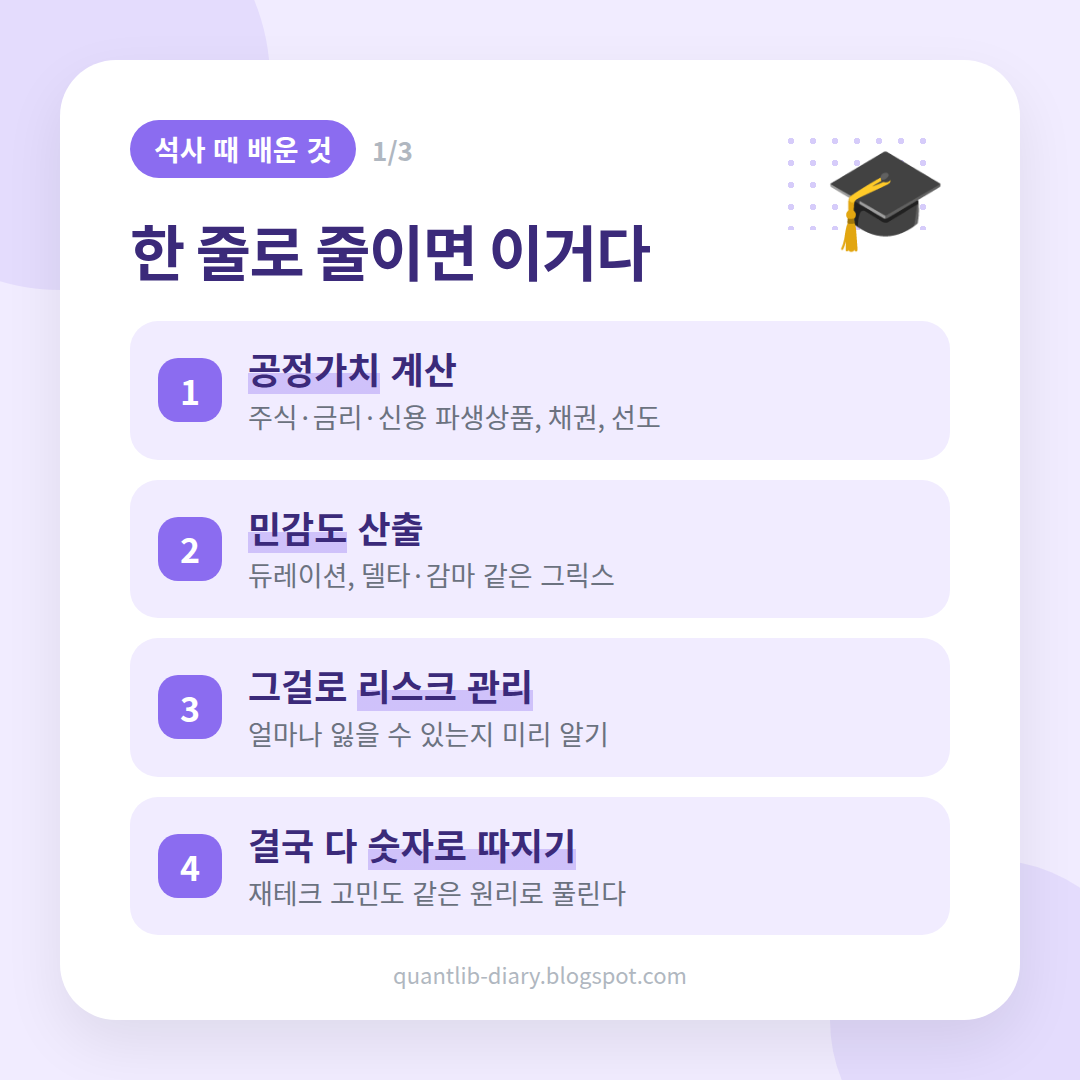
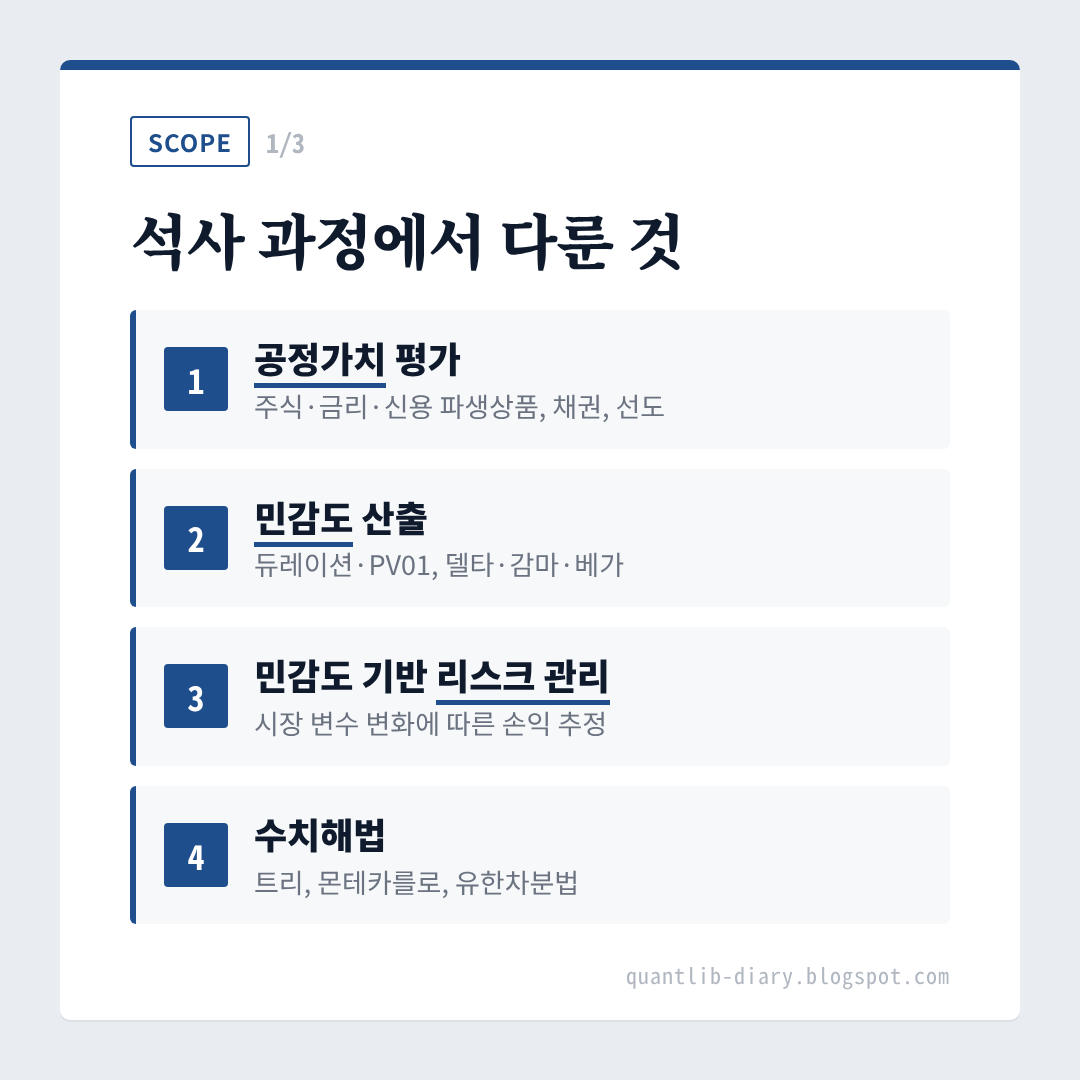
Pro research-note card style for quant diary; restyle prologue images
Claude-Session: https://claude.ai/code/session_01Xd2bhLQBjXyZEe9hNn5SEZ

diff --git a/cards/render.py b/cards/render.py
@@ -56,13 +56,58 @@ def esc(s):
     return s.replace("\n", "<br>")
 
 
-def page(theme, body, css=""):
+PRO_CSS = """
+body{background:#E9ECF1}
+.blob,.dots,.emoji{display:none}
+.card{border-radius:10px;box-shadow:0 2px 0 rgba(15,27,45,.06);padding-top:56px}
+.card:before{content:"";position:absolute;left:0;top:0;right:0;height:10px;background:var(--accent);border-radius:10px 10px 0 0}
+h1{font-family:'Noto Serif CJK KR',serif;font-weight:900;letter-spacing:-1px}
+.hl{background:none;border-bottom:5px solid var(--accent)}
+.tag{border-radius:4px;background:none;color:var(--accent);border:2px solid var(--accent);font-size:24px;letter-spacing:1px;padding:6px 16px}
+.page{font-family:'Noto Sans Mono CJK KR',monospace}
+.brand{font-family:'Noto Sans Mono CJK KR',monospace;letter-spacing:1px;text-align:right;right:70px;left:auto}
+.box{border-radius:6px;background:#F3F5F8;border-left:6px solid var(--accent)}
+.box .ic{display:none}
+.row{border-radius:6px;background:#F7F8FA;border-left:6px solid var(--accent)}
+.num,.ck{border-radius:4px;font-family:'Noto Sans Mono CJK KR',monospace}
+.it{border-bottom:2px solid #E6E9EE}
+th{border-radius:0 !important;background:#fff !important;color:var(--ink) !important;border-top:4px solid var(--ink);border-bottom:2px solid var(--ink)}
+td{border-radius:0 !important;background:#fff !important;border-bottom:1px solid #D9DEE5}
+.q{border-radius:4px;background:none;color:var(--accent);padding:0 0 0 20px;border-left:6px solid var(--accent)}
+.a{align-self:stretch;max-width:100%;border-radius:4px;background:#F7F8FA;margin-left:26px}
+.chip{border-radius:4px;border-width:2px;font-size:24px;font-family:'Noto Sans Mono CJK KR',monospace}
+/* cover */
+.pro-cover body{background:#0F1B2D}
+.cov{background:#0F1B2D !important;color:#fff}
+.cov h1{color:#fff}.cov .sub{color:#AEB8C6 !important}
+.cov .hl{border-bottom-color:#7FA7D9}
+.cov .tag{color:#9FC0E8;border-color:#9FC0E8}
+.cov .chip{color:#C9D6E6;border-color:#4A6283}
+.cov .chips{flex-direction:row;flex-wrap:wrap;gap:12px}.cov .bottom{margin-top:0}
+.cov .brand{color:#6F8099}
+.cov:before{background:#7FA7D9}
+.formula{font-family:'Noto Serif CJK KR',serif;font-style:italic;font-size:44px;color:#7FA7D9;
+         border-top:1px solid #33465F;padding-top:26px;margin-top:auto;margin-bottom:26px}
+"""
+
+THEMES["navy"] = ("#E9ECF1", "#1F4E8C", "#0F1B2D")
+
+
+def page(theme, body, css="", s=None):
+    s = s or {}
+    pro = s.get("style") == "pro"
+    if pro:
+        theme = theme if theme in ("navy",) else "navy"
     bg, accent, ink = THEMES.get(theme, THEMES["mint"])
+    extra = PRO_CSS if pro else ""
+    cls = "card cov" if (pro and s.get("type") == "cover") else "card"
+    if pro and s.get("type") == "cover":
+        body = body.replace('<div class="bottom">', f'<div class="formula">{s.get("formula", "")}</div><div class="bottom">')
     return f"""<html><head><meta charset="utf-8"><style>
-:root{{--bg:{bg};--accent:{accent};--ink:{ink};--hl:{accent}55}}{BASE_CSS}{css}</style></head>
+:root{{--bg:{bg};--accent:{accent};--ink:{ink};--hl:{accent}55}}{BASE_CSS}{css}{extra}</style></head>
 <body><div class="blob" style="width:420px;height:420px;top:-130px;left:-150px"></div>
 <div class="blob" style="width:320px;height:320px;bottom:-100px;right:-70px"></div>
-<div class="card"><div class="dots"></div>{body}<div class="brand">{BRAND}</div></div></body></html>"""
+<div class="{cls}"><div class="dots"></div>{body}<div class="brand">{BRAND}</div></div></body></html>"""
 
 
 def top(s, default, idx):
@@ -86,7 +131,7 @@ def cover(s, idx):
         css += "h1{font-size:62px}.chip{font-size:26px}"
     body = f"""{top(s, '재테크 사전', '')}<h1>{esc(s['title'])}</h1><div class="sub muted">{esc(s.get('subtitle', ''))}</div>
 <div class="bottom"><div class="chips">{chips}</div><div class="emoji">{s.get('emoji', '💰')}</div></div>"""
-    return page(s.get("theme"), body, css)
+    return page(s.get("theme"), body, css, s)
 
 
 def points(s, idx):
@@ -102,7 +147,7 @@ def points(s, idx):
         for i, p in enumerate(s["points"][:4]))
     body = f"""{top(s, '핵심 정리', idx)}<div class="emoji">{s.get('emoji', '✅')}</div>
 <h1>{esc(s['title'])}</h1><div class="list">{rows}</div>"""
-    return page(s.get("theme"), body, css)
+    return page(s.get("theme"), body, css, s)
 
 
 def compare(s, idx):
@@ -118,7 +163,7 @@ td:first-child{{font-weight:800;border-radius:20px 0 0 20px}}td:last-child{{bord
     rows = "".join("<tr>" + "".join(f"<td>{esc(c)}</td>" for c in r) + "</tr>" for r in s["rows"][:5])
     tip = f'<div class="box"><div class="ic">💡</div><div>{esc(s["tip"])}</div></div>' if s.get("tip") else ""
     body = f"""{top(s, '한눈에 비교', idx)}<h1>{esc(s['title'])}</h1><table><tr>{head}</tr>{rows}</table>{tip}"""
-    return page(s.get("theme"), body, css)
+    return page(s.get("theme"), body, css, s)
 
 
 def bars(s, idx):
@@ -136,7 +181,7 @@ def bars(s, idx):
     take = f'<div class="box"><div class="ic">👉</div><div>{esc(s["takeaway"])}</div></div>' if s.get("takeaway") else ""
     note = f'<div class="note">{esc(s["note"])}</div>' if s.get("note") else ""
     body = f"""{top(s, '숫자로 보기', idx)}<h1>{esc(s['title'])}</h1>{rows}{take}{note}"""
-    return page(s.get("theme"), body, css)
+    return page(s.get("theme"), body, css, s)
 
 
 def qa(s, idx):
@@ -149,7 +194,7 @@ def qa(s, idx):
     rows = "".join(f'<div style="display:flex;flex-direction:column"><div class="q">Q. {esc(i["q"])}</div>'
                    f'<div class="a">{esc(i["a"])}</div></div>' for i in s["items"][:3])
     body = f"""{top(s, '자주 묻는 질문', idx)}<h1>{esc(s['title'])}</h1><div class="list">{rows}</div>"""
-    return page(s.get("theme"), body, css)
+    return page(s.get("theme"), body, css, s)
 
 
 def check(s, idx):
@@ -162,7 +207,7 @@ def check(s, idx):
     tip = f'<div class="box"><div class="ic">💡</div><div>{esc(s["tip"])}</div></div>' if s.get("tip") else ""
     body = f"""{top(s, '체크리스트', idx)}<div class="emoji">{s.get('emoji', '📝')}</div>
 <h1>{esc(s['title'])}</h1><div class="list">{rows}</div>{tip}"""
-    return page(s.get("theme"), body, css)
+    return page(s.get("theme"), body, css, s)
 
 
 TEMPLATES = {"cover": cover, "points": points, "compare": compare, "bars": bars, "qa": qa, "check": check}
@@ -180,6 +225,8 @@ def render(spec, out_dir):
         pg = b.new_page(viewport={"width": 1080, "height": 1080})
         for c in cards:
             c.setdefault("theme", theme)
+            if spec.get("style"):
+                c.setdefault("style", spec["style"])
             idx = ""
             if c["type"] != "cover":
                 n += 1

diff --git a/WRITING_GUIDE.md b/WRITING_GUIDE.md
@@ -15,6 +15,9 @@
   - 최근 시장 숫자(기준금리, 국고채 금리 등)를 예시로 쓰면 좋다. 기준일과 출처 표시.
   - 끝은 `<h2>오늘의 한 줄</h2>` 로 마무리하고 다음 일기 주제를 예고한다.
   - 프롤로그(#0)를 내부 링크로 자주 연결한다.
+  - **카드 이미지는 전문적인 리서치 노트 스타일**: cards.json 최상위에 `"style": "pro", "theme": "navy"` 를 넣는다. 이모지 쓰지 않는다. tag 는 영어 대문자(예: "QUANT DIARY #3", "KEY IDEA", "EXAMPLE", "SENSITIVITY", "SUMMARY").
+    cover 에는 그 글의 핵심 수식을 `"formula"` 로 넣는다 (HTML sub/sup 사용 가능, 예: `"P = Σ CF<sub>t</sub> / (1+y)<sup>t</sup>"`). chips 는 영어 용어.
+    귀여운 표현("꿀팁", "!") 대신 담백한 문장으로.
 
 ## 하루 작업 (하루 2개: 이슈 글 1 + 상시 글 1)
 ### A. 이슈 글 (먼저)
